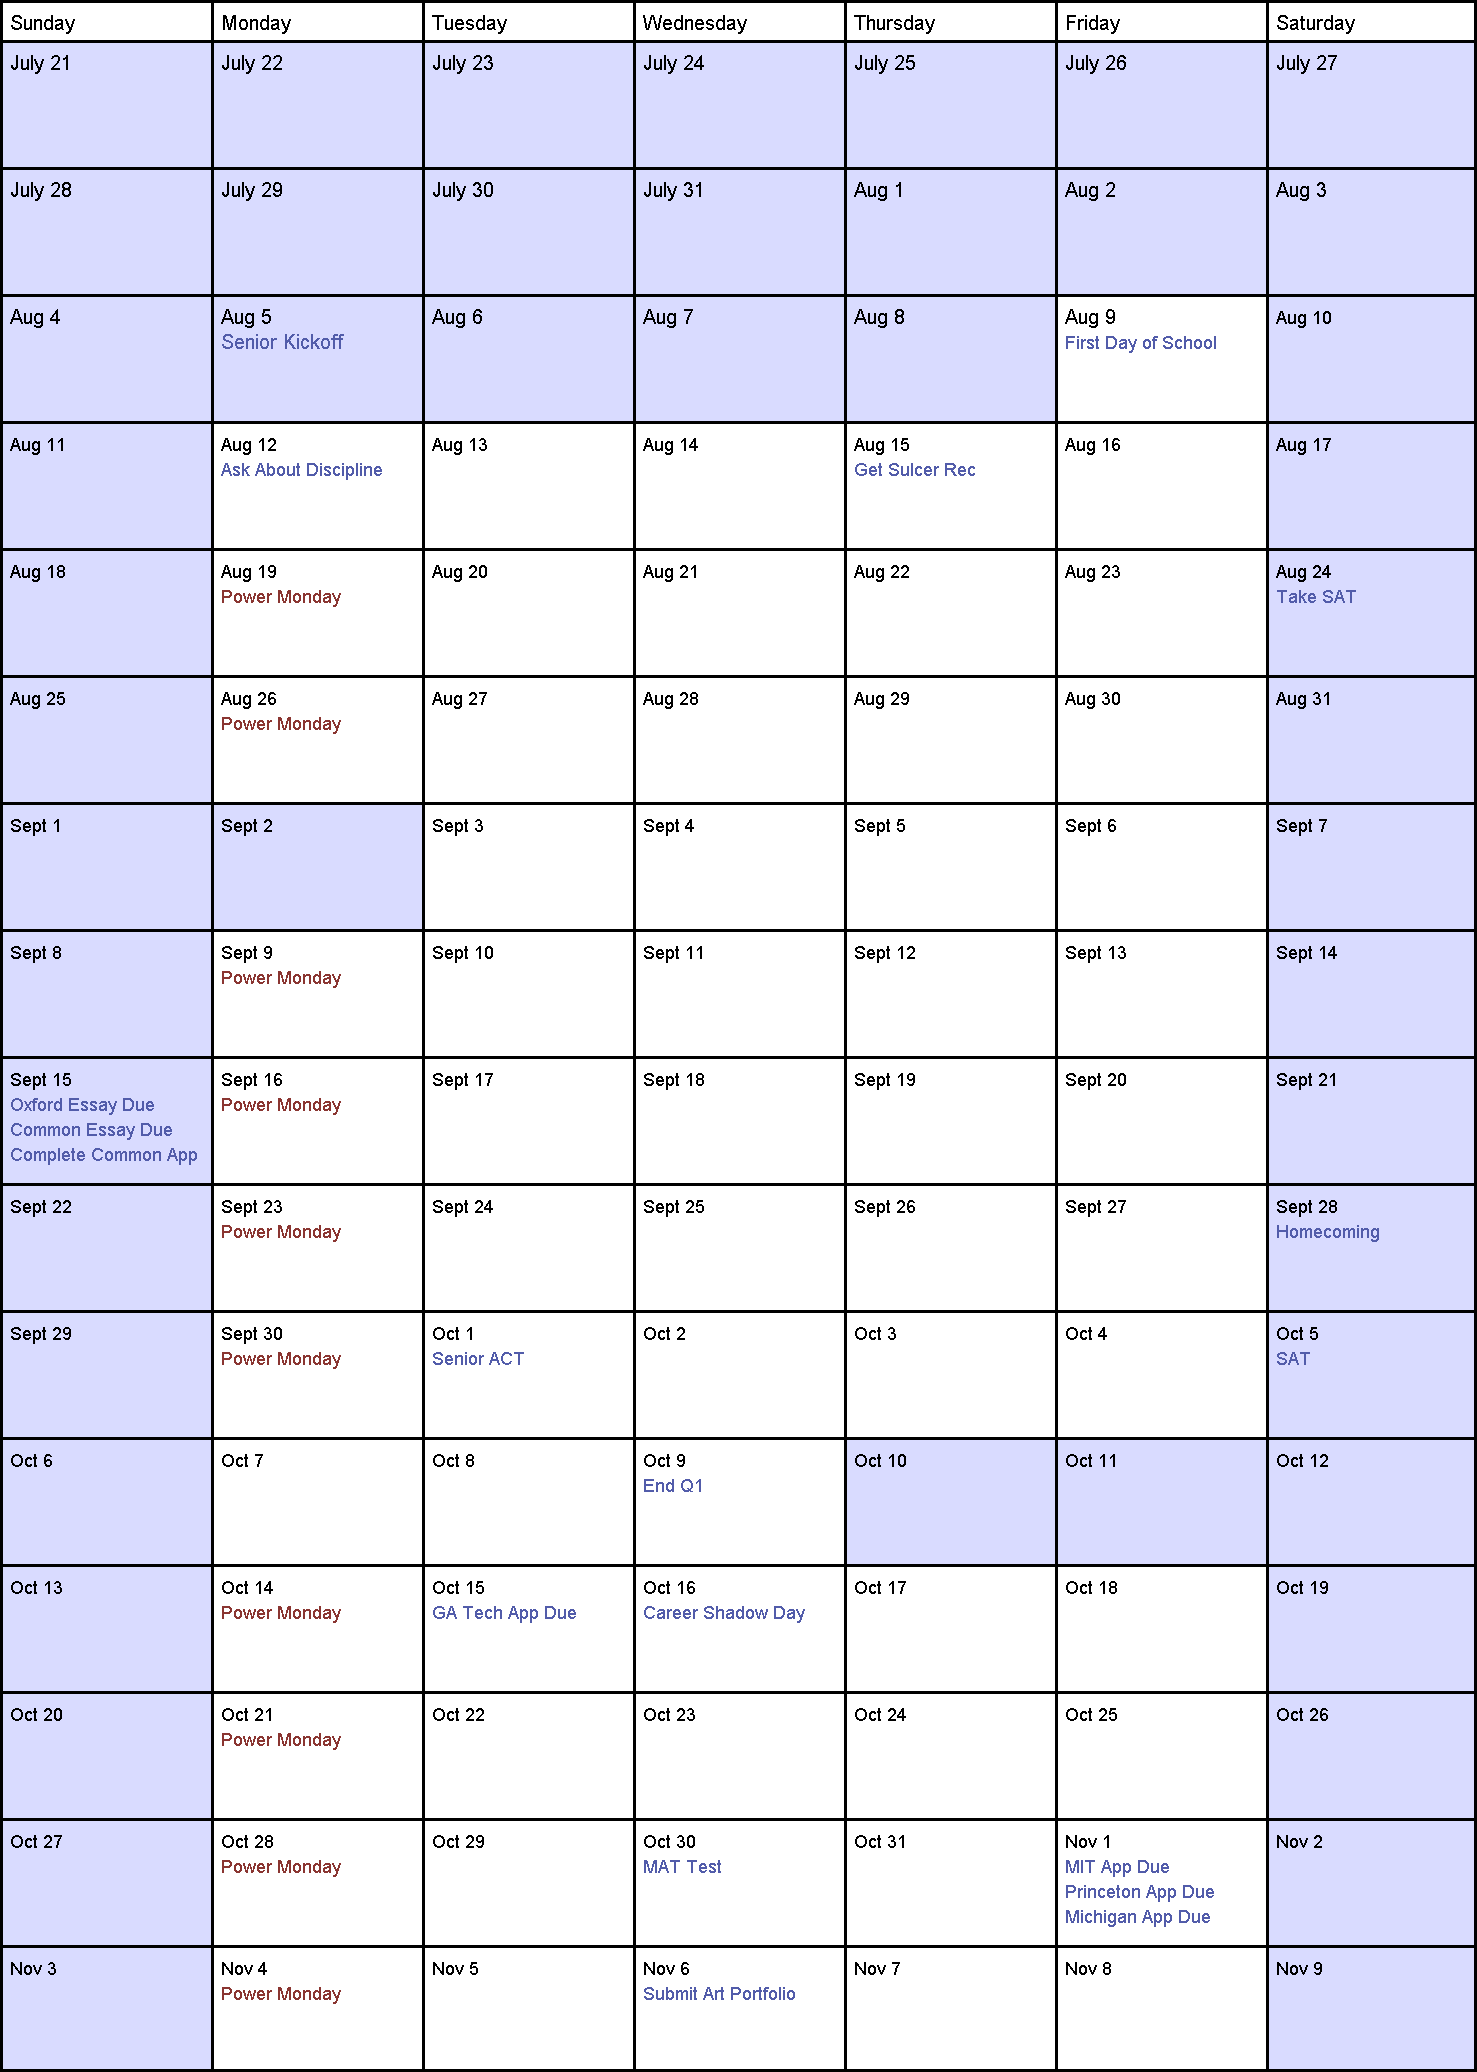
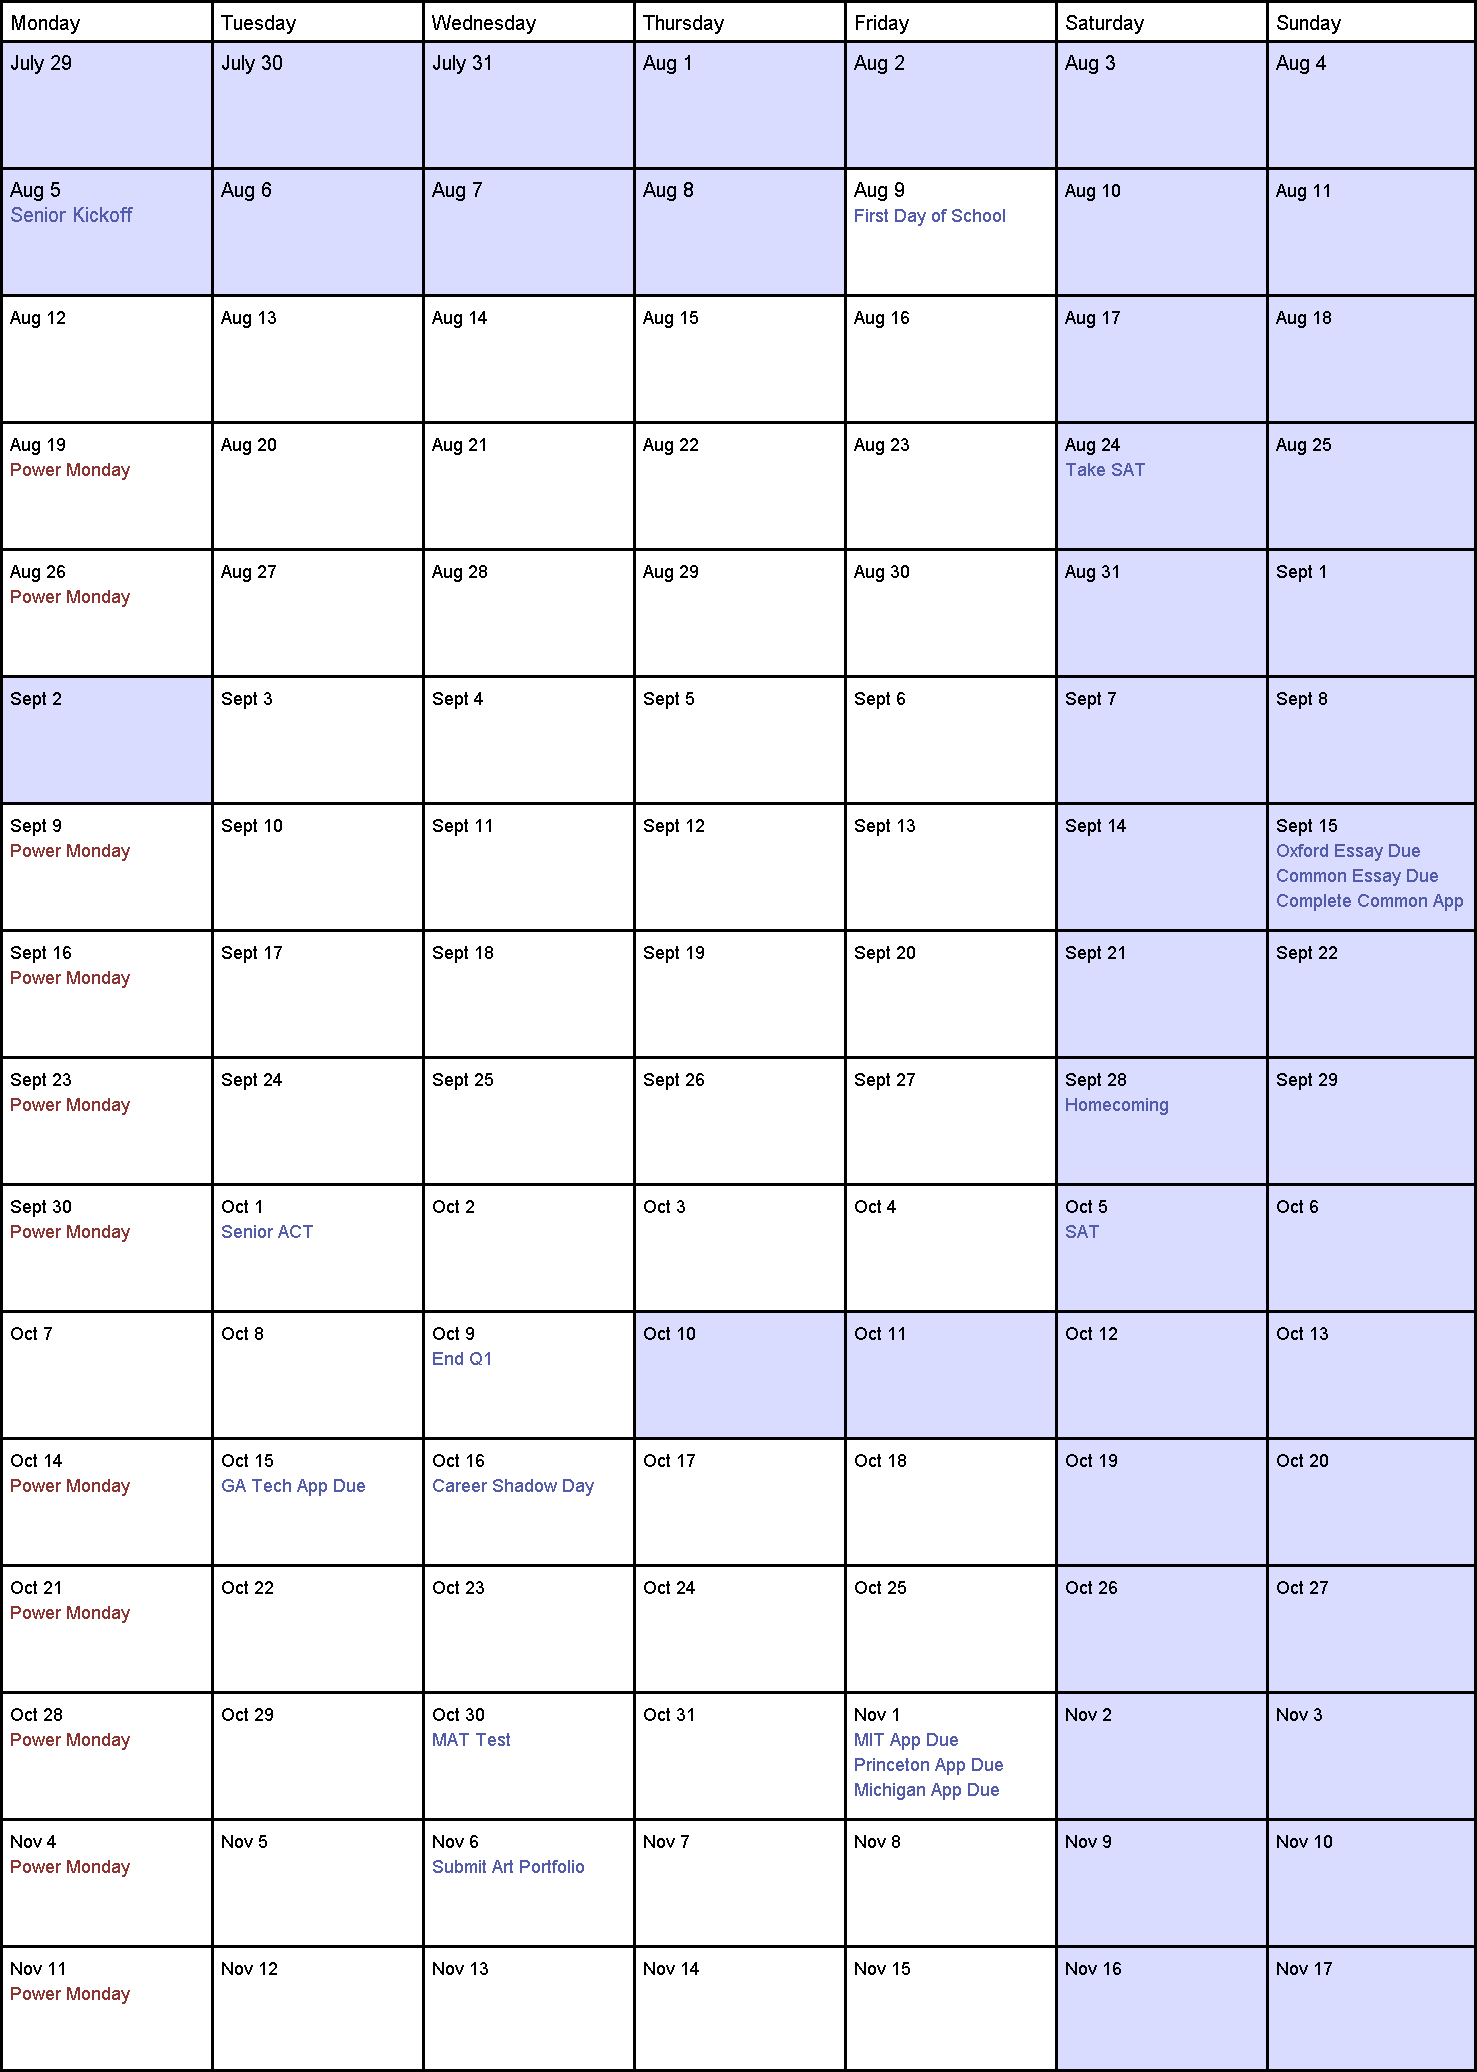
start week on monday

diff --git a/src/Calendar.java b/src/Calendar.java
@@ -21,12 +21,12 @@ public class Calendar extends Applet implements Runnable, KeyListener {
     Color noSchoolCol=new Color(217, 219, 255);
     Color gridColor=new Color(0,0,0);
     int borderSize=40;
-    String[] days=new String[]{"Sunday","Monday","Tuesday","Wednesday","Thursday","Friday","Saturday",};
+    String[] days=new String[]{"Monday","Tuesday","Wednesday","Thursday","Friday","Saturday","Sunday"};
     int[] daysPerMonth=new int[]{ 31  , 28  , 31  , 30  , 31  , 30   , 31   , 31  , 30   , 31  , 30  , 31  };
     String[] months=new String[]{"Jan","Feb","Mar","Apr","May","June","July","Aug","Sept","Oct","Nov","Dec"};
-    int adj=2;
-    int start=getDayofYear(21,7);
-    int end=getDayofYear(9,11);
+    int adj=1;
+    int start=getDayofYear(29,7);
+    int end=getDayofYear(17,11);
     int rows=(int)(Math.ceil((end-start)/7.0));
     ArrayList<String>[] events;
     boolean vert=false;
@@ -66,8 +66,6 @@ public class Calendar extends Applet implements Runnable, KeyListener {
         addWeeklyEvents();
         addEvent("Senior Kickoff", getDayofYear(5,8), 1);
         addEvent("First Day of School", getDayofYear(9,8), 1);
-        addEvent("Ask About Discipline", getDayofYear(12,8), 1);
-        addEvent("Get Sulcer Rec", getDayofYear(15,8), 1);
         addEvent("Take SAT", getDayofYear(24,8), 1);
         addEvent("Oxford Essay Due", getDayofYear(15,9), 1);
         addEvent("Common Essay Due", getDayofYear(15,9), 1);
@@ -103,7 +101,7 @@ public class Calendar extends Applet implements Runnable, KeyListener {
         int lastday=getDayofYear(24,5);
         for (int i=start; i<=end; i++){
             int day=getDayOfWeek(i);
-            if (day==0||day==6){
+            if (day==5||day==6){
                 noSchool[i-start]=true;
             }
         }
@@ -129,7 +127,7 @@ public class Calendar extends Applet implements Runnable, KeyListener {
         int lastMonday=getDayofYear(8,4);
         for (int i=getDayofYear(19,8); i<=end; i++){
             int day=getDayOfWeek(i);
-            if (day==1&&!noSchool[i-start]&&i!=getDayofYear(7,10)){
+            if (day==0&&!noSchool[i-start]&&i!=getDayofYear(7,10)){
                 addEvent("Power Monday", i, 2);
             }
         }
@@ -251,7 +249,7 @@ public class Calendar extends Applet implements Runnable, KeyListener {
     }
 
     private int getDayOfWeek(int day){
-        int adj=(2+start)%7-1;
+        int adj=(this.adj+start)%7-1;
         if (adj>7){
             adj-=7;
         }else if (adj<0){
@@ -267,7 +265,7 @@ public class Calendar extends Applet implements Runnable, KeyListener {
 
         int fontsize=gfx.getFont().getSize();
 
-        int adj=(2+start)%7-1;
+        int adj=(this.adj+start)%7-1;
         if (adj>7){
             adj-=7;
         }else if (adj<0){
